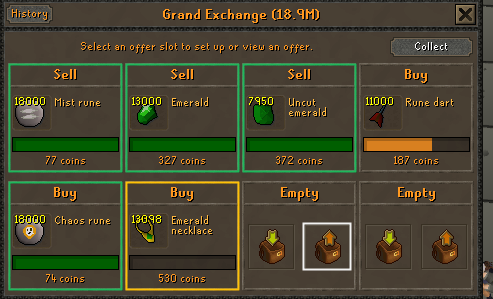
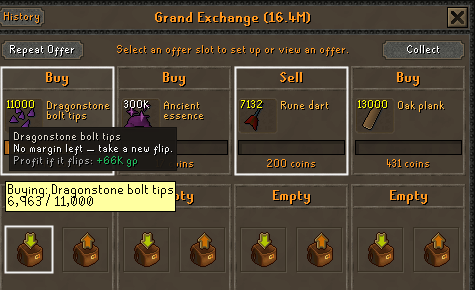
README: new slot grid and GE window pictures in the current colours
Retaken by hand: busy slots on grey tiles, white boxes on the two that
need a new price (Dragonstone bolt tips, Rune dart), the gold buy bar, and
the white ring on a free slot's Buy button. The GE window is cropped at
its frame, so no game world or other players' names. slot-tooltip.png is
the one still showing an old box.

Claude-Session: https://claude.ai/code/session_01CrbbnpxzzXajkmFNwfAgTw

diff --git a/README.md b/README.md
@@ -65,10 +65,11 @@ RuneLite sidebar.**
 
 ### Offer slots
 
-![The sidebar's GE slot grid. Mist rune, Emerald and Uncut emerald, sold, and Chaos rune, bought, are boxed in green, ready to collect, with full bars: blue for the sells, gold for the buy. Rune dart, a buy still filling, has no box and a part-filled gold bar. Emerald necklace is boxed in gold: a buy that needs a new price.](./docs/screenshots/slots.png)
+![The sidebar's GE slot grid. Dragonstone bolt tips, a buy part-filled with a gold bar, and Rune dart, a sell, are boxed in white: both need a new price. Ancient essence and Oak plank, still working, sit on grey tiles with no box. The four empty slots stay dark.](./docs/screenshots/slots.png)
 
 - Your 8 GE slots in the sidebar, each with a bar that fills in your buy or
-  sell colour.
+  sell colour. A slot holding an offer sits on a grey tile; an empty one
+  stays dark.
 - A box only when a slot needs you: **white** when it needs a new price
   (white is where to act, everywhere in the plugin), **green** when it's
   ready to collect.
@@ -79,7 +80,7 @@ RuneLite sidebar.**
 
 ![Hovering a GE slot in the sidebar. The tooltip reads: Blood rune. Raise to 300 gp, or cancel (yours: 290). Bidding 290 gp each. Bought 0 of 4,000 (0%). To collect: 290 gp. Profit if it flips: +48K gp. click: inspect, right-click: price it yourself.](./docs/screenshots/slot-tooltip.png)
 
-![The Grand Exchange window with PocketGE's outlines: green round the four finished offers, gold round the Emerald necklace buy that needs a new price, none round the Rune dart buy still filling, and a white ring on a free slot's Sell button.](./docs/screenshots/ge-window.png)
+![The Grand Exchange window with PocketGE's outlines: white round the Dragonstone bolt tips buy and the Rune dart sell, which both need a new price, none round Ancient essence and Oak plank, still working, and a white ring on a free slot's Buy button. Hovering Dragonstone bolt tips shows PocketGE's tooltip: No margin left, take a new flip. Profit if it flips: +66K gp.](./docs/screenshots/ge-window.png)
 
 - The same boxes outline those offers in the GE window.
 - A white ring marks the Buy or Sell button of a free slot, where the card's

diff --git a/docs/screenshots/README.md b/docs/screenshots/README.md
@@ -5,8 +5,9 @@ The README's pictures — `offer-screen.png`, `watchlist.png`,
 `slots.png`, `slot-tooltip.png`, `ge-window.png`, `bank.png` and
 `settings.png` — are captures from the client, sent in by hand. They go stale
 when the panel changes and have to be retaken; the last set went when the
-slot colours and the default theme changed under them, and the slot grid went
-again when its boxes did (only the slots that need you are boxed now).
+slot colours and the default theme changed under them, and the slot grid and
+GE window went again when their boxes did (only the slots that need you are
+boxed now, in white, and busy slots sit on a grey tile).
 `slot-tooltip.png` still shows the old grey box under its tooltip.
 
 `Screenshot.java.txt` is the other way to get one: it lays out the real
